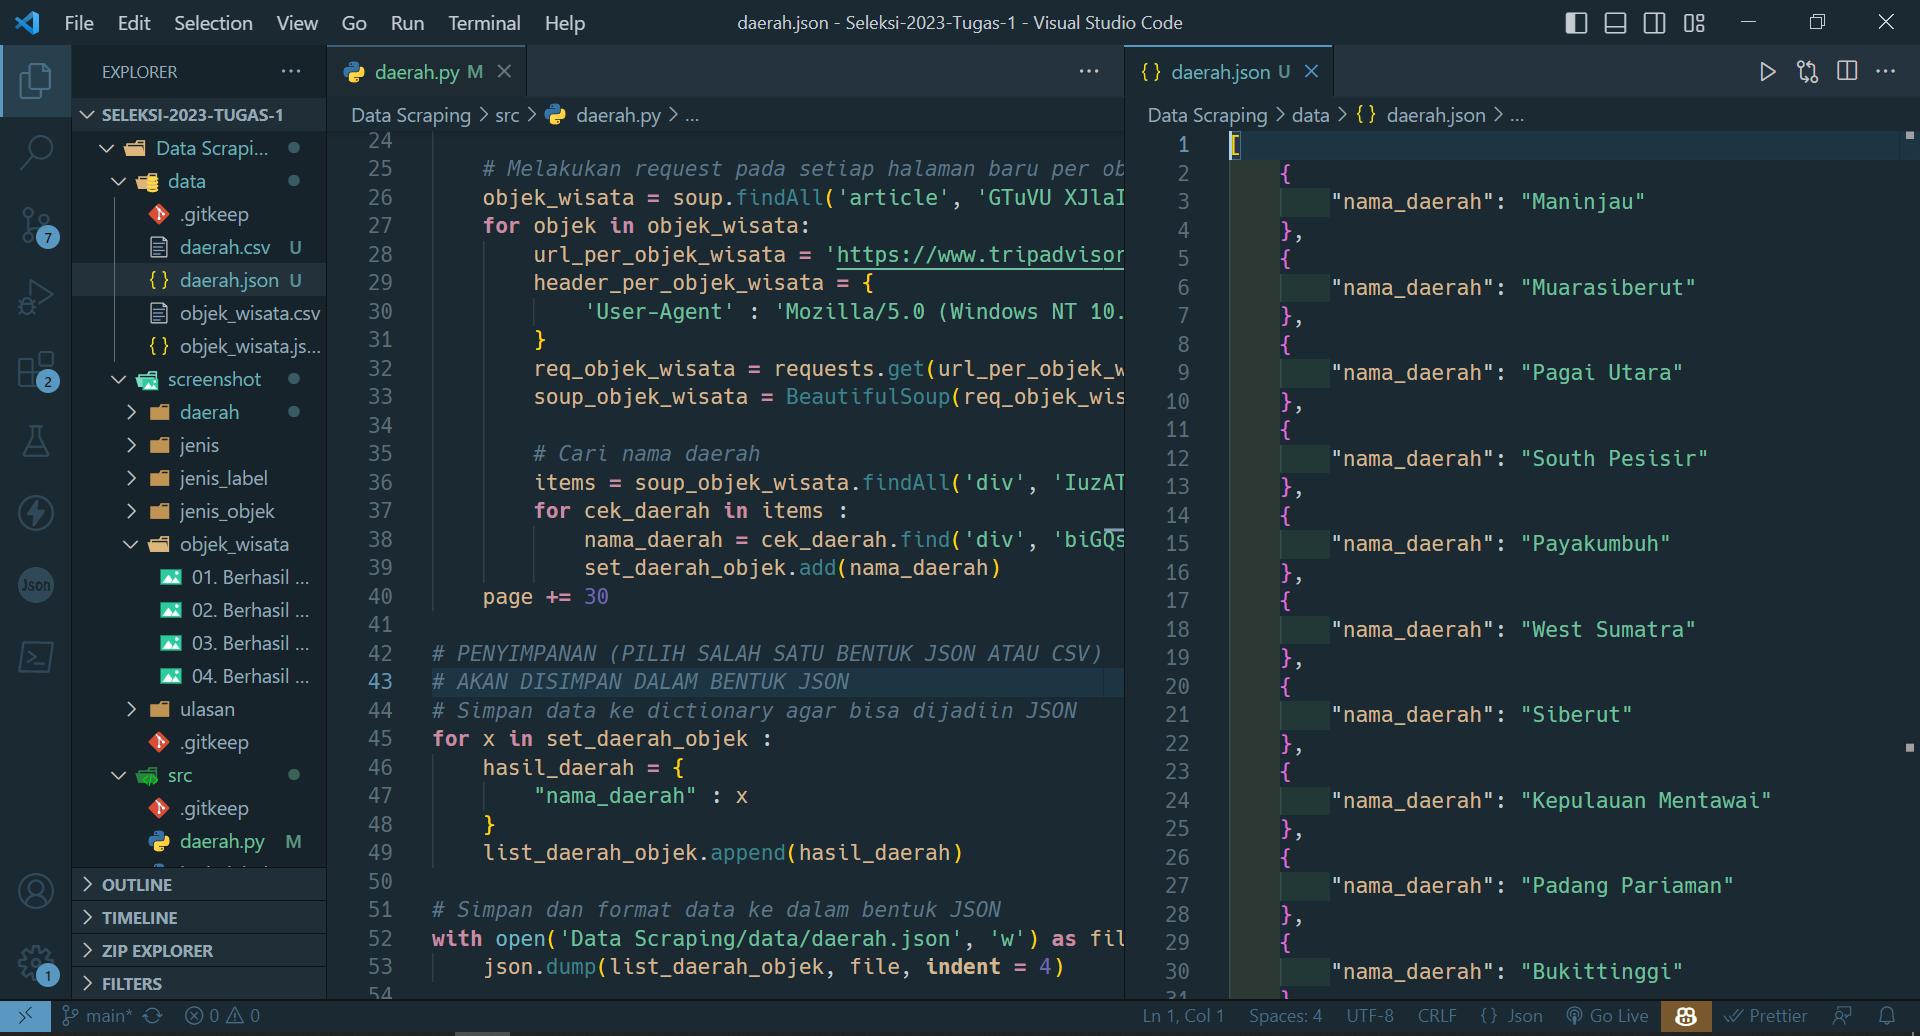
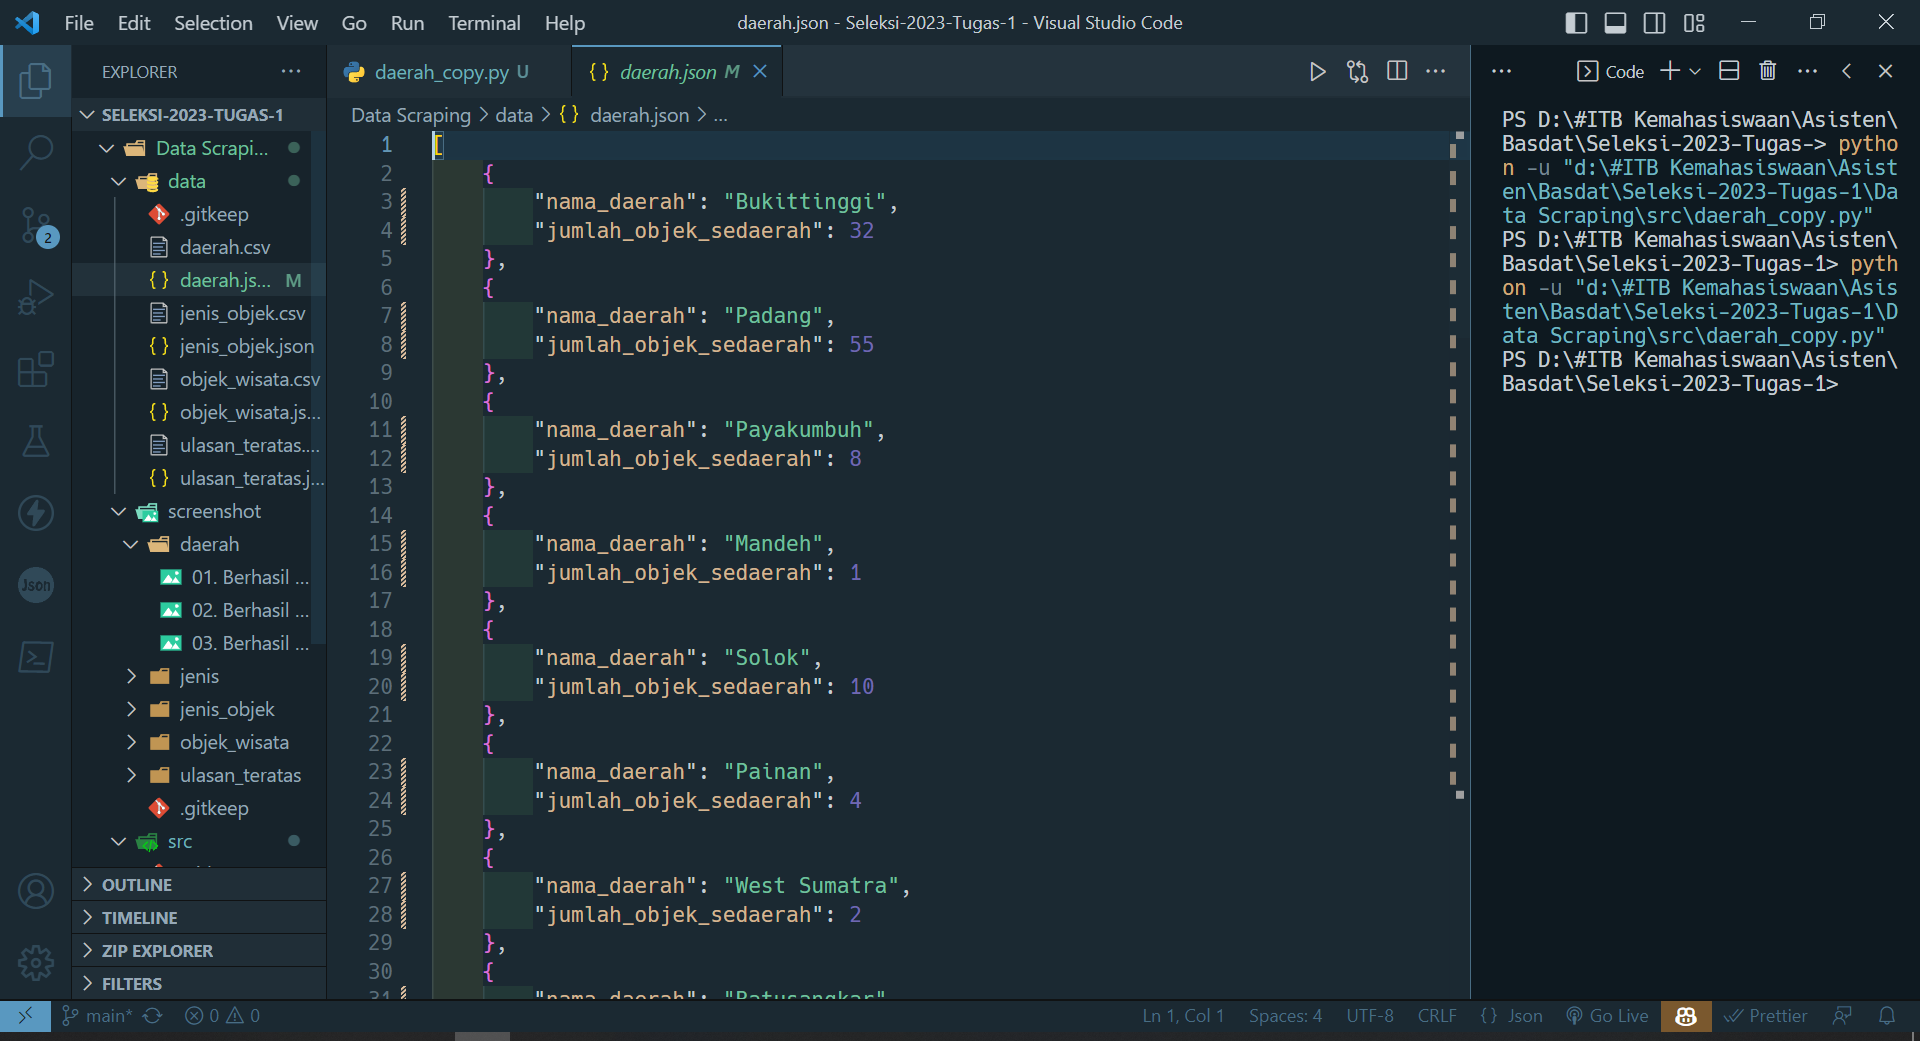
daerah fix

diff --git a/Data Scraping/src/daerah.py b/Data Scraping/src/daerah.py
@@ -14,7 +14,7 @@ header = {
 list_daerah_objek = []
 
 # Inisialisasi tempat penyimpanan sementara hasil ekstraksi data agar tidak ada duplikat data
-set_daerah_objek = set()
+dict_daerah_objek = dict()
 page = 0
 while (page <= 180) :
     # Melakukan request pada setiap halaman yang akan diekstrak
@@ -25,6 +25,21 @@ while (page <= 180) :
     # Melakukan request pada setiap halaman baru per objek wisata
     objek_wisata = soup.findAll('article', 'GTuVU XJlaI')
     for objek in objek_wisata:
+        nama_objek = objek.find('div', 'XfVdV o AIbhI').text.split('. ')[1]
+        try :
+            nama_jenis = objek.find('div', 'biGQs _P pZUbB hmDzD').text
+        except :
+            nama_jenis = ''
+        try :
+            rata_rata_rating = objek.find('svg', 'UctUV d H0 hzzSG')['aria-label'].split(' ')[0].replace(',', '.')
+        except :
+            rata_rata_rating = ''
+        try :
+            jumlah_ulasan = objek.find('span', 'biGQs _P pZUbB osNWb').text
+        except :
+            jumlah_ulasan = ''
+
+        # Masuk ke halaman setiap objek untuk melihat daerah objek wisata
         url_per_objek_wisata = 'https://www.tripadvisor.co.id/' + objek.find('div', 'alPVI eNNhq PgLKC tnGGX').find('a')['href']
         header_per_objek_wisata = {
             'User-Agent' : 'Mozilla/5.0 (Windows NT 10.0; Win64; x64) AppleWebKit/537.36 (KHTML, like Gecko) Chrome/114.0.0.0 Safari/537.36'
@@ -36,15 +51,23 @@ while (page <= 180) :
         items = soup_objek_wisata.findAll('div', 'IuzAT e')
         for cek_daerah in items :
             nama_daerah = cek_daerah.find('div', 'biGQs _P pZUbB KxBGd').text.split('di ')[1]
-            set_daerah_objek.add(nama_daerah)
+            if (nama_objek != '' and nama_daerah != '' and nama_jenis != '' and rata_rata_rating != '' and jumlah_ulasan != '') :
+                if (nama_daerah in dict_daerah_objek) :
+                    dict_daerah_objek[nama_daerah] = dict_daerah_objek[nama_daerah] + 1
+                else :
+                    dict_daerah_objek[nama_daerah] = 1
+            else :
+                if (nama_daerah not in dict_daerah_objek) :
+                    dict_daerah_objek[nama_daerah] = 0
     page += 30
 
 # PENYIMPANAN (PILIH SALAH SATU BENTUK JSON ATAU CSV)
 # AKAN DISIMPAN DALAM BENTUK JSON
 # Simpan data ke dictionary agar bisa dijadiin JSON
-for x in set_daerah_objek :
+for x in dict_daerah_objek :
     hasil_daerah = {
-        "nama_daerah" : x
+        "nama_daerah" : x,
+        "jumlah_objek_sedaerah" : dict_daerah_objek[x]
     }
     list_daerah_objek.append(hasil_daerah)
 
@@ -53,9 +76,9 @@ with open('Data Scraping/data/daerah.json', 'w') as file:
     json.dump(list_daerah_objek, file, indent = 4)
 
 # # AKAN DISIMPAN DALAM BENTUK CSV
-# for x in set_daerah_objek :
-#     list_daerah_objek.append([x])
-# kepala = ['nama_daerah']
+# for x in dict_daerah_objek :
+#     list_daerah_objek.append([x, dict_daerah_objek[x]])
+# kepala = ['nama_daerah', 'jumlah_objek_sedaerah']
 # writer = csv.writer(open('Data Scraping/data/daerah.csv', 'w', newline = ''))
 # writer.writerow(kepala)
 # for data in list_daerah_objek :
